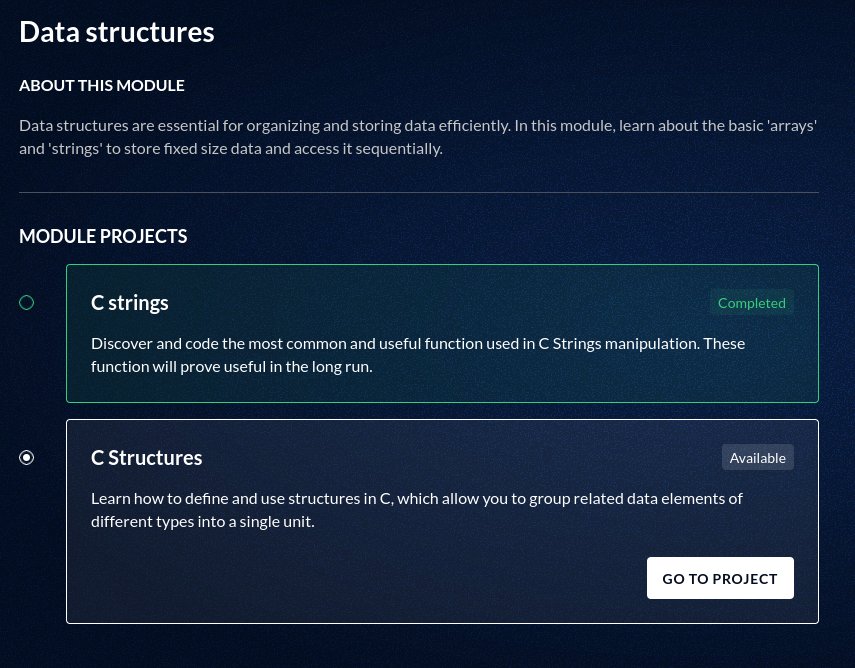
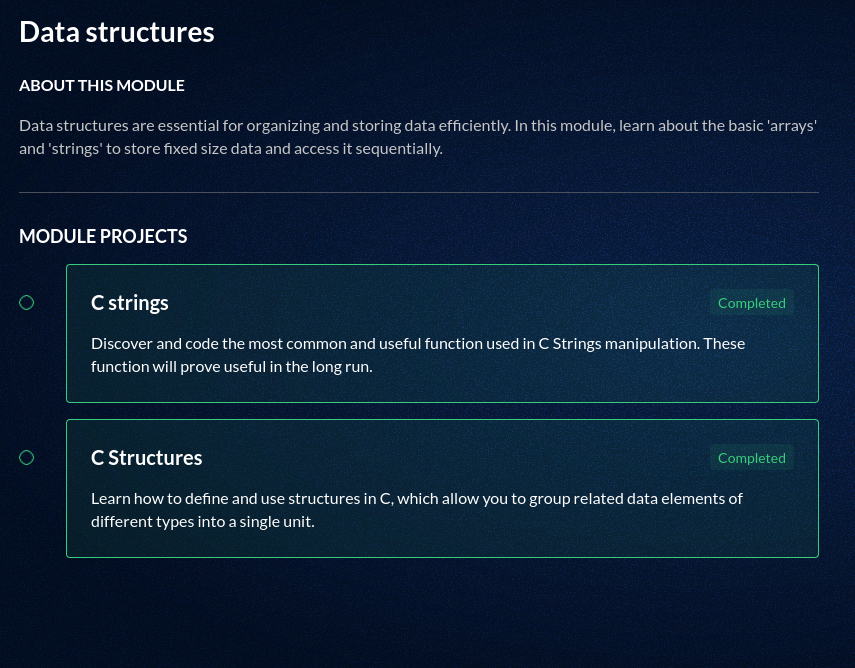
Add Images

Changed region(s): [[0.7298, 0.8084, 0.9427, 0.8982], [0.8211, 0.6587, 0.9427, 0.7186]]

diff --git a/Data Structures/C-Structures/ex1/ft_strs_to_tab.c b/Data Structures/C-Structures/ex1/ft_strs_to_tab.c
@@ -6,7 +6,7 @@
 /*   By: lclerel- <lclerel-@student.42.fr>          +#+  +:+       +#+        */
 /*                                                +#+#+#+#+#+   +#+           */
 /*   Created: 2026/03/25 22:54:18 by lclerel-          #+#    #+#             */
-/*   Updated: 2026/03/26 02:36:29 by lclerel-         ###   ########.fr       */
+/*   Updated: 2026/03/26 04:26:53 by lclerel-         ###   ########.fr       */
 /*                                                                            */
 /* ************************************************************************** */
 

diff --git a/README.md b/README.md
@@ -7,7 +7,7 @@ Bienvenue sur mon dépôt regroupant mes exercices et projets réalisés à **42
 > [!NOTE]
 > Quelques jours apres ma piscine, je risque de faire un article sur mon [site](https://syxpi.fr), Je vous conseille de regarder regulierement 👀
 ## 📊 Mon État d'Avancement
-* **Niveau Actuel :** `Level 3 [88/100 XP]`
+* **Niveau Actuel :** `Level 4 [34/100 XP]`
 
 ![Level](./Images/Level.png)
 
@@ -26,7 +26,7 @@ Preuve ci-dessous :
 ## 📊 Vue de mon Holy Graph et Stats
 **Mon Holy Graph** : 
 
-![Holy Graph](./Images/HolyGraph.png)
+![Holy Graph](./Images/HolyG    raph.png)
 
 **Mes Stats de Venue**
 
@@ -121,7 +121,7 @@ Voici l'historique de mes validations. Chaque "Attempt" représente une étape d
 
 ![C System Interface Tries](./Images/C-System-Interface-Tries.png)
 
-### 🧠 Module : Data Structures
+### 🏗 Module : Data Structures
 **Vue d'ensemble** :
 
 ![Vue d'ensemble de Data Structures](./Images/Data-Structures.png)
@@ -129,13 +129,46 @@ Voici l'historique de mes validations. Chaque "Attempt" représente une étape d
 | Projet | Tentatives | Statut | Date Début/Fin |
 | :--- | :--- | :--- | :--- |
 | **[C Strings](./Data%20Structures/C-Strings)** | 3 Attempts | ✅ Success | 23/03/2026 20h21 - 26/03/2026 2h04 |
-| **[C Structures](./Data%20Structures/C-Structures)** | [En Cours] | ⏳ | 25/03/2026 16h12 - ??? |
+| **[C Structures](./Data%20Structures/C-Structures)** | 1 Attempt | ✅ Success | 25/03/2026 16h12 - 26/03/2026 3h18 |
 
 **Tout mes Tries Reussis** :
 
 - C-Strings :
 
 ![C-Strings Tries](./Images/C-Strings-Tries.png)
+
+- C-Structures :
+
+![C-Structures Tries](./Images/C-Structures-Tries.png)
+
+### 🖥 Module : Compilation and Preprocessing
+**Vue d'ensemble** :
+
+![Vue d'ensemble de Compilation and Preprocessing](./Images/Compilation-And-Preprocessing.png)
+
+| Projet | Tentatives | Statut | Date Début/Fin |
+| :--- | :--- | :--- | :--- |
+| **C Preprocessor** | Non Realisé | ❌ Echec | ??? |
+| **C Libft** | Non Realisé | ❌ Echec | ??? |
+
+### 👩🏻💻 Module : System Interface
+**Vue d'ensemble** :
+
+![Vue d'ensemble de System Interface](./Images/System-Interface.png)
+
+| Projet | Tentatives | Statut | Date Début/Fin |
+| :--- | :--- | :--- | :--- |
+| **C File Operations** | Non Realisé | ❌ Echec | ??? |
+
+### 🤷♀ Module : Dynamic Data Structures
+**Vue d'ensemble** :
+
+![Vue d'ensemble de Dynamic Data Structures](./Images/Dynamic-Data-Structures.png)
+
+| Projet | Tentatives | Statut | Date Début/Fin |
+| :--- | :--- | :--- | :--- |
+| **C Linked Lists** | Non Realisé | ❌ Echec | ??? |
+| **C Binary Trees** | Non Realisé | ❌ Echec | ??? |
 
 ## 📝 Mes Examens
 | Examen | Score | Résultat | Raison | 
